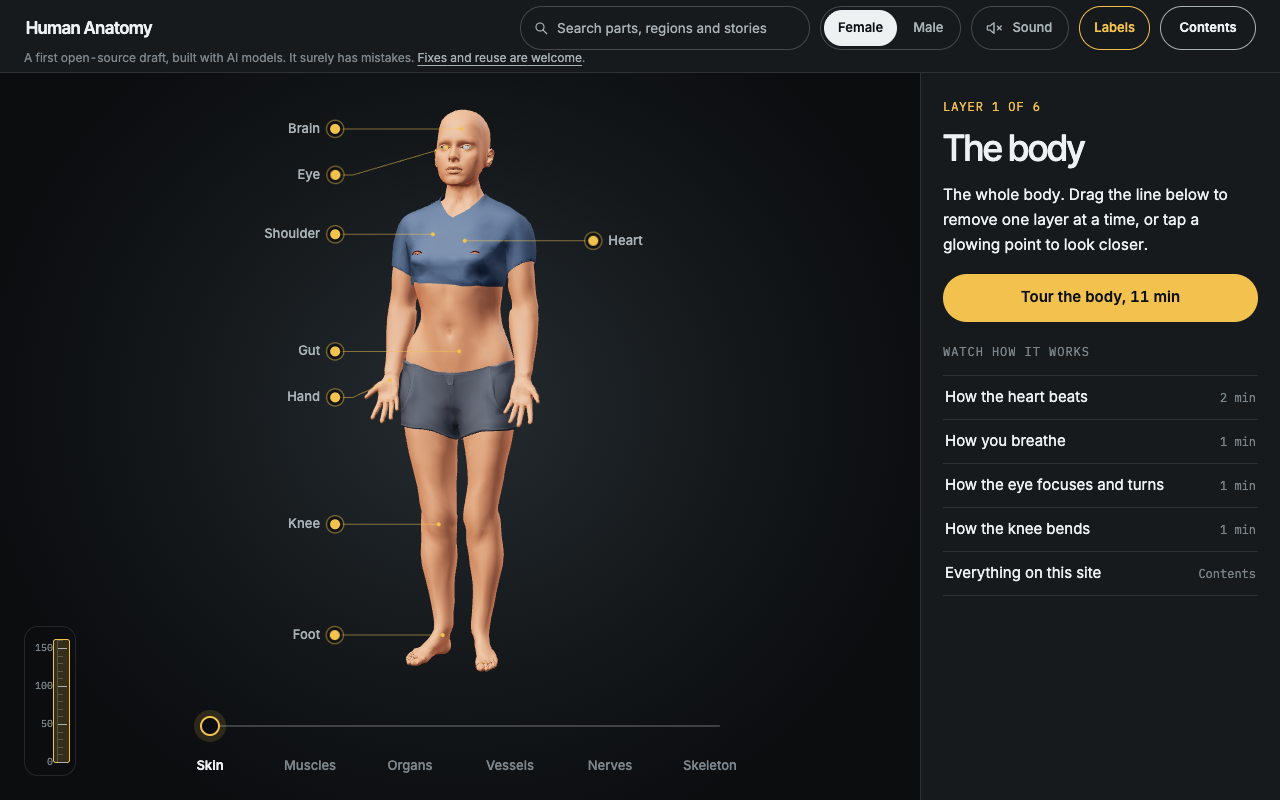
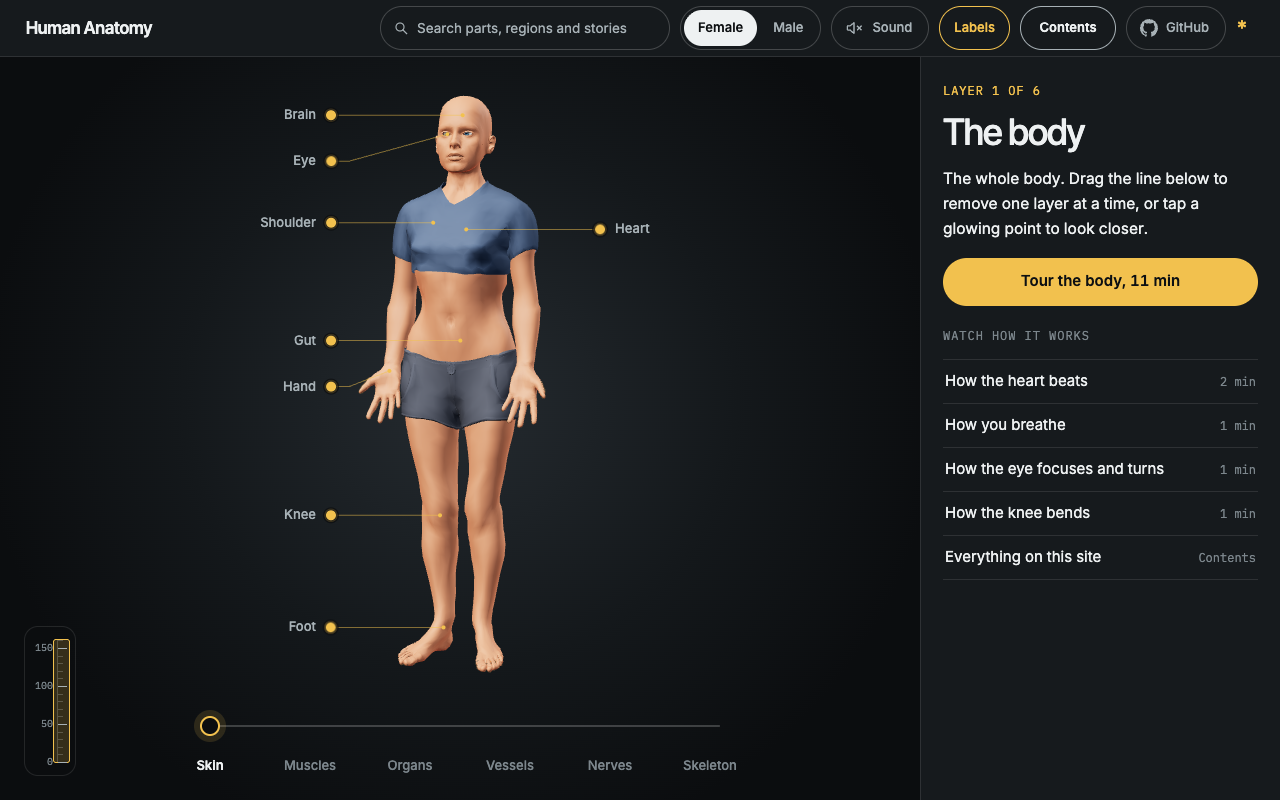
A GitHub button in the bar, and a star that says this is a draft, in place of the line under the title
The line of small print under the title cost the model a row of height. The bar now has a GitHub button, and a
gold star beside it opens the note (a first draft, built with AI, not perfect). On a phone both sit at the end of
the title's line. Escape closes the note before it leaves a close-up.

The README's pictures and walkthrough are retaken with the new bar; scripts/body/readme-shots.mjs takes them.

diff --git a/site/body/index.html b/site/body/index.html
@@ -50,9 +50,19 @@ button:focus-visible, input:focus-visible, a:focus-visible, .contents:focus-visi
 .trail .home { font: 600 17px var(--display); letter-spacing: -0.01em; color: var(--ink); text-decoration: none; white-space: nowrap; }
 .trail b { color: var(--ink); font-weight: 600; padding: 0 2px; }
 .trail i { font-style: normal; }
-.draft { flex: 1 0 100%; margin: 0; font-size: 12px; line-height: 16px; color: var(--faint); }
-.draft a { color: var(--muted); text-underline-offset: 3px; }
-.draft a:hover { color: var(--ink); }
+/* the project on GitHub, and beside it a star that opens a note: this is a draft, and it has mistakes */
+.about { display: flex; align-items: center; gap: 2px; }
+.github { display: inline-flex; align-items: center; gap: 8px; min-height: 44px; padding: 0 16px 0 13px; border: 1px solid var(--line-strong); border-radius: 22px; color: var(--muted); font-size: 13px; font-weight: 500; text-decoration: none; white-space: nowrap; }
+.github:hover { color: var(--ink); }
+.github svg { width: 18px; height: 18px; fill: currentColor; }
+.draft { position: relative; }
+.draft summary { display: grid; place-items: center; width: 28px; height: 28px; border-radius: 50%; list-style: none; cursor: pointer; font-size: 20px; font-weight: 700; line-height: 1; color: var(--mark); }
+.draft summary::-webkit-details-marker { display: none; }
+.draft summary:hover, .draft[open] summary { background: var(--line); }
+.draft summary:focus-visible { outline: 2px solid var(--ink); outline-offset: 2px; }
+.draft p { position: absolute; right: 0; top: calc(100% + 10px); z-index: 9; width: min(300px, calc(100vw - 2 * var(--gutter))); padding: 10px 12px; border: 1px solid var(--line-strong); border-radius: 8px; background: var(--panel); font-size: 13px; line-height: 1.45; color: var(--muted); }
+.draft p a { color: var(--ink); text-underline-offset: 3px; }
+@media (max-width: 1240px) { .github { padding: 0 12px; } .github span { display: none; } }
 /* find any part, region or story by name, from anywhere */
 .finder { position: relative; display: flex; align-items: center; }
 .finder svg { position: absolute; left: 13px; width: 16px; height: 16px; fill: none; stroke: var(--muted); stroke-width: 1.8; stroke-linecap: round; pointer-events: none; }
@@ -235,10 +245,11 @@ input[type="range"]::-moz-range-thumb { width: 14px; height: 14px; border-radius
 @media (max-width: 820px) {
   :root { --gutter: 12px; }
   .bar { flex-wrap: wrap; gap: 4px 6px; padding: 2px var(--gutter) 6px; }
-  .trail { flex: 1 0 100%; font-size: 13px; }
+  .trail { order: -2; flex: 1 0 calc(100% - 78px); font-size: 13px; }   /* the GitHub button and its star (68px and the gap) take the rest of the line, to the pixel: the search must not fit after them */
   .trail button { min-height: 34px; }
   .trail .home { font-size: 16px; }
-  .draft span { display: none; }
+  .about { order: -1; }   /* at the end of the trail's line: the controls' line has no room */
+  .github { min-height: 34px; padding: 0 9px; }
   .finder { flex: 1; min-width: 0; }
   .finder input { width: 100%; min-height: 36px; padding-left: 32px; }
   .finder svg { left: 10px; }
@@ -299,7 +310,10 @@ input[type="range"]::-moz-range-thumb { width: 14px; height: 14px; border-radius
     <button type="button" class="sound-btn" id="soundBtn" aria-pressed="false" aria-label="Sound: music, and a voice during a story"><svg viewBox="0 0 24 24" aria-hidden="true"><path d="M4 9.5v5h3.5l4.5 4v-13l-4.5 4z"/><path class="waves" d="M15.5 9a4 4 0 0 1 0 6M18 6.5a7.5 7.5 0 0 1 0 11"/><path class="mute" d="M16 9.5l5 5M21 9.5l-5 5"/></svg><span>Sound</span></button>
     <button type="button" class="sound-btn labels-btn" id="labelsBtn" aria-pressed="true" aria-label="Labels on the model">Labels</button>
     <button type="button" class="contents-btn" id="contentsBtn" aria-expanded="false" aria-controls="contents">Contents</button>
-    <p class="draft">A first open-source draft<span>, built with AI models</span>. It <span>surely </span>has mistakes. <a href="https://github.com/jonclegg/human-anatomy" target="_blank" rel="noopener">Fixes<span> and reuse are</span> welcome</a>.</p>
+    <div class="about">
+      <a class="github" href="https://github.com/jonclegg/human-anatomy" target="_blank" rel="noopener" aria-label="This project on GitHub"><svg viewBox="0 0 16 16" aria-hidden="true"><path d="M8 0C3.58 0 0 3.58 0 8c0 3.54 2.29 6.53 5.47 7.59.4.07.55-.17.55-.38 0-.19-.01-.82-.01-1.49-2.01.37-2.53-.49-2.69-.94-.09-.23-.48-.94-.82-1.13-.28-.15-.68-.52-.01-.53.63-.01 1.08.58 1.23.82.72 1.21 1.87.87 2.33.66.07-.52.28-.87.51-1.07-1.78-.2-3.64-.89-3.64-3.95 0-.87.31-1.59.82-2.15-.08-.2-.36-1.02.08-2.12 0 0 .67-.21 2.2.82.64-.18 1.32-.27 2-.27s1.36.09 2 .27c1.53-1.04 2.2-.82 2.2-.82.44 1.1.16 1.92.08 2.12.51.56.82 1.27.82 2.15 0 3.07-1.87 3.75-3.65 3.95.29.25.54.73.54 1.48 0 1.07-.01 1.93-.01 2.2 0 .21.15.46.55.38A8.01 8.01 0 0 0 16 8c0-4.42-3.58-8-8-8z"/></svg><span>GitHub</span></a>
+      <details class="draft" id="draft"><summary aria-label="About these models: a draft with mistakes">*</summary><p>These models are a first open-source draft, built with AI, and they are not perfect: shapes, positions and names can be wrong. <a href="https://github.com/jonclegg/human-anatomy" target="_blank" rel="noopener">Report a mistake or reuse the work on GitHub</a>.</p></details>
+    </div>
   </header>
 
   <div class="work">

diff --git a/docs/release.md b/docs/release.md
@@ -2,6 +2,11 @@
 
 Newest first. Each entry: date, PR, what changed for people using the site, and what an operator must do and what it costs.
 
+## 2026-11-14 · A GitHub button in the bar, in place of the line under it
+
+- **For users:** the line of small print under the title is gone, so the model gets that height. The bar has a GitHub button, and a gold star beside it opens a note saying the models are a first draft, built with AI, and not perfect. On a phone both sit at the end of the title's line.
+- **For operators:** deploy `site/body/` as usual; no data or cost change. `node scripts/body/readme-shots.mjs` retakes the README's pictures and walkthrough from the served site.
+
 ## 2026-11-14 · Tidy for publishing ([#1](https://github.com/jonclegg/human-anatomy/pull/1))
 
 - **For users:** nothing changes on the site. The README now says what each folder holds and credits the narration and music.
